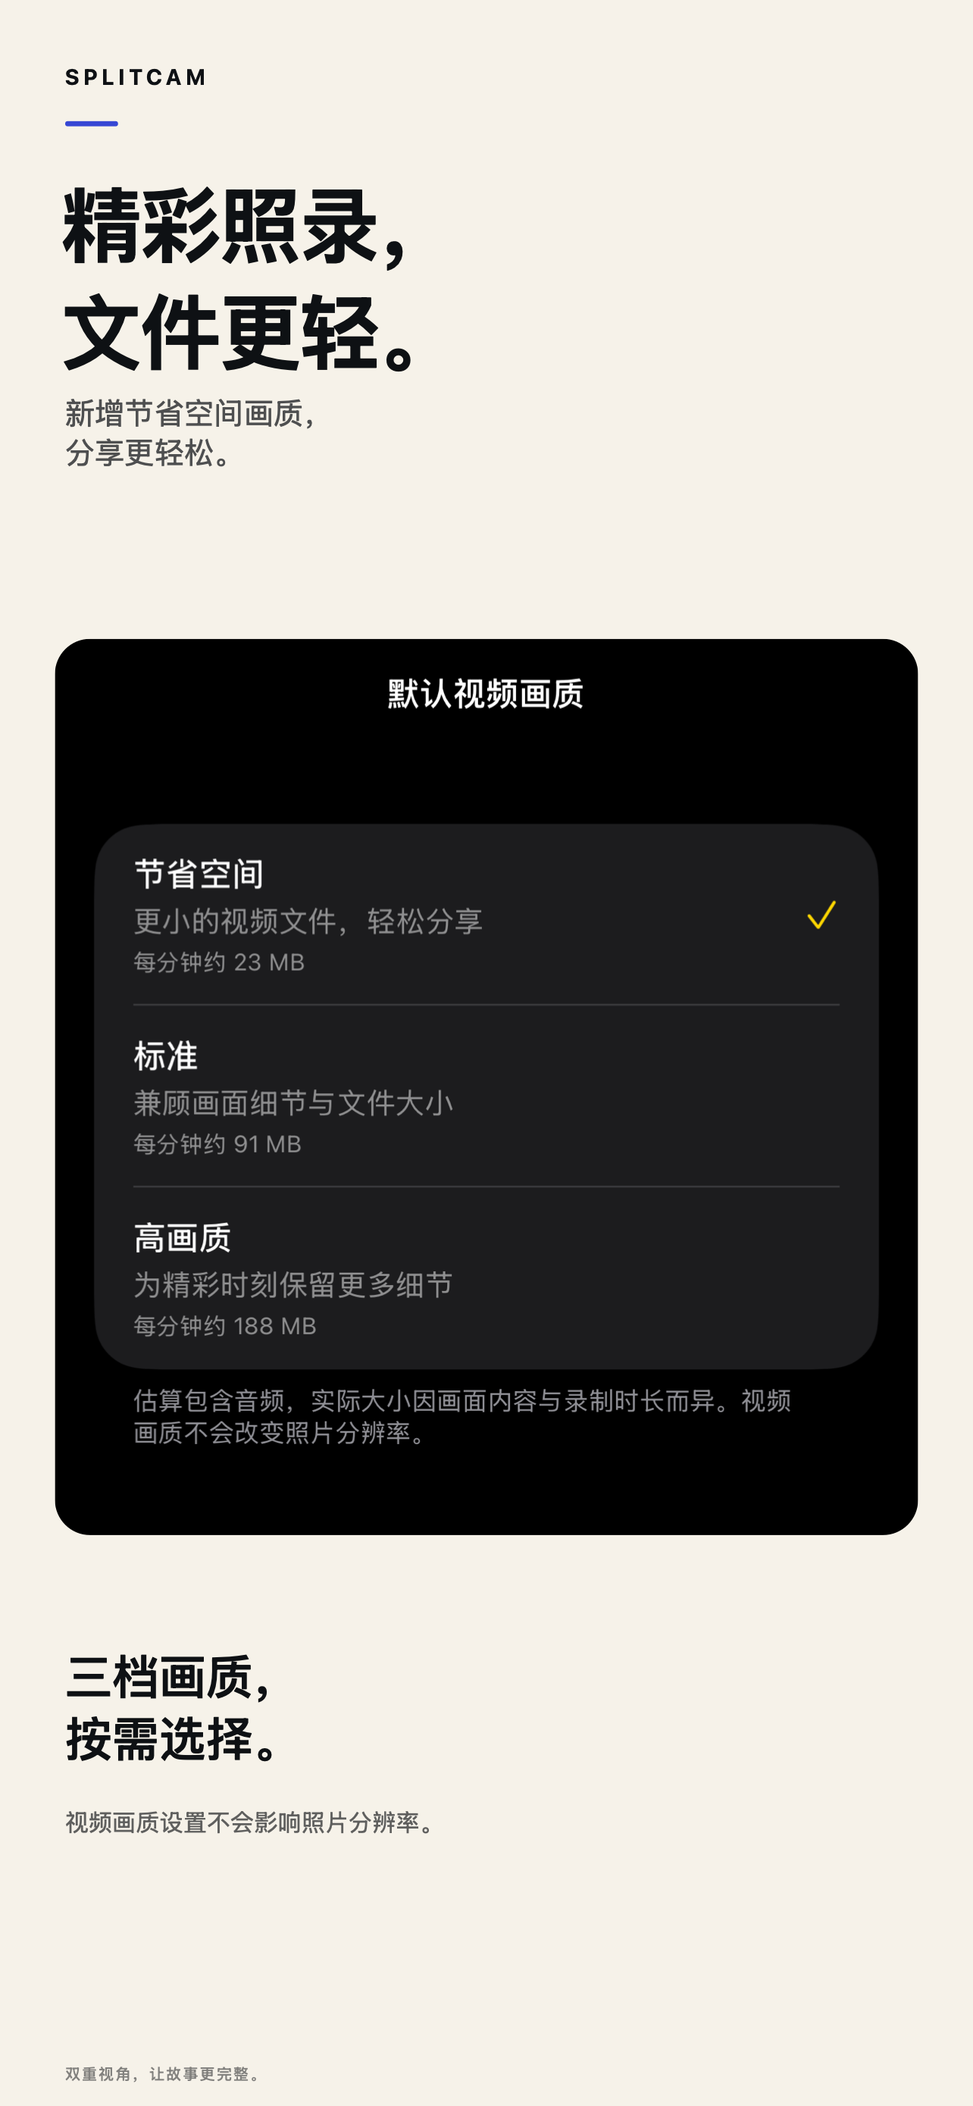
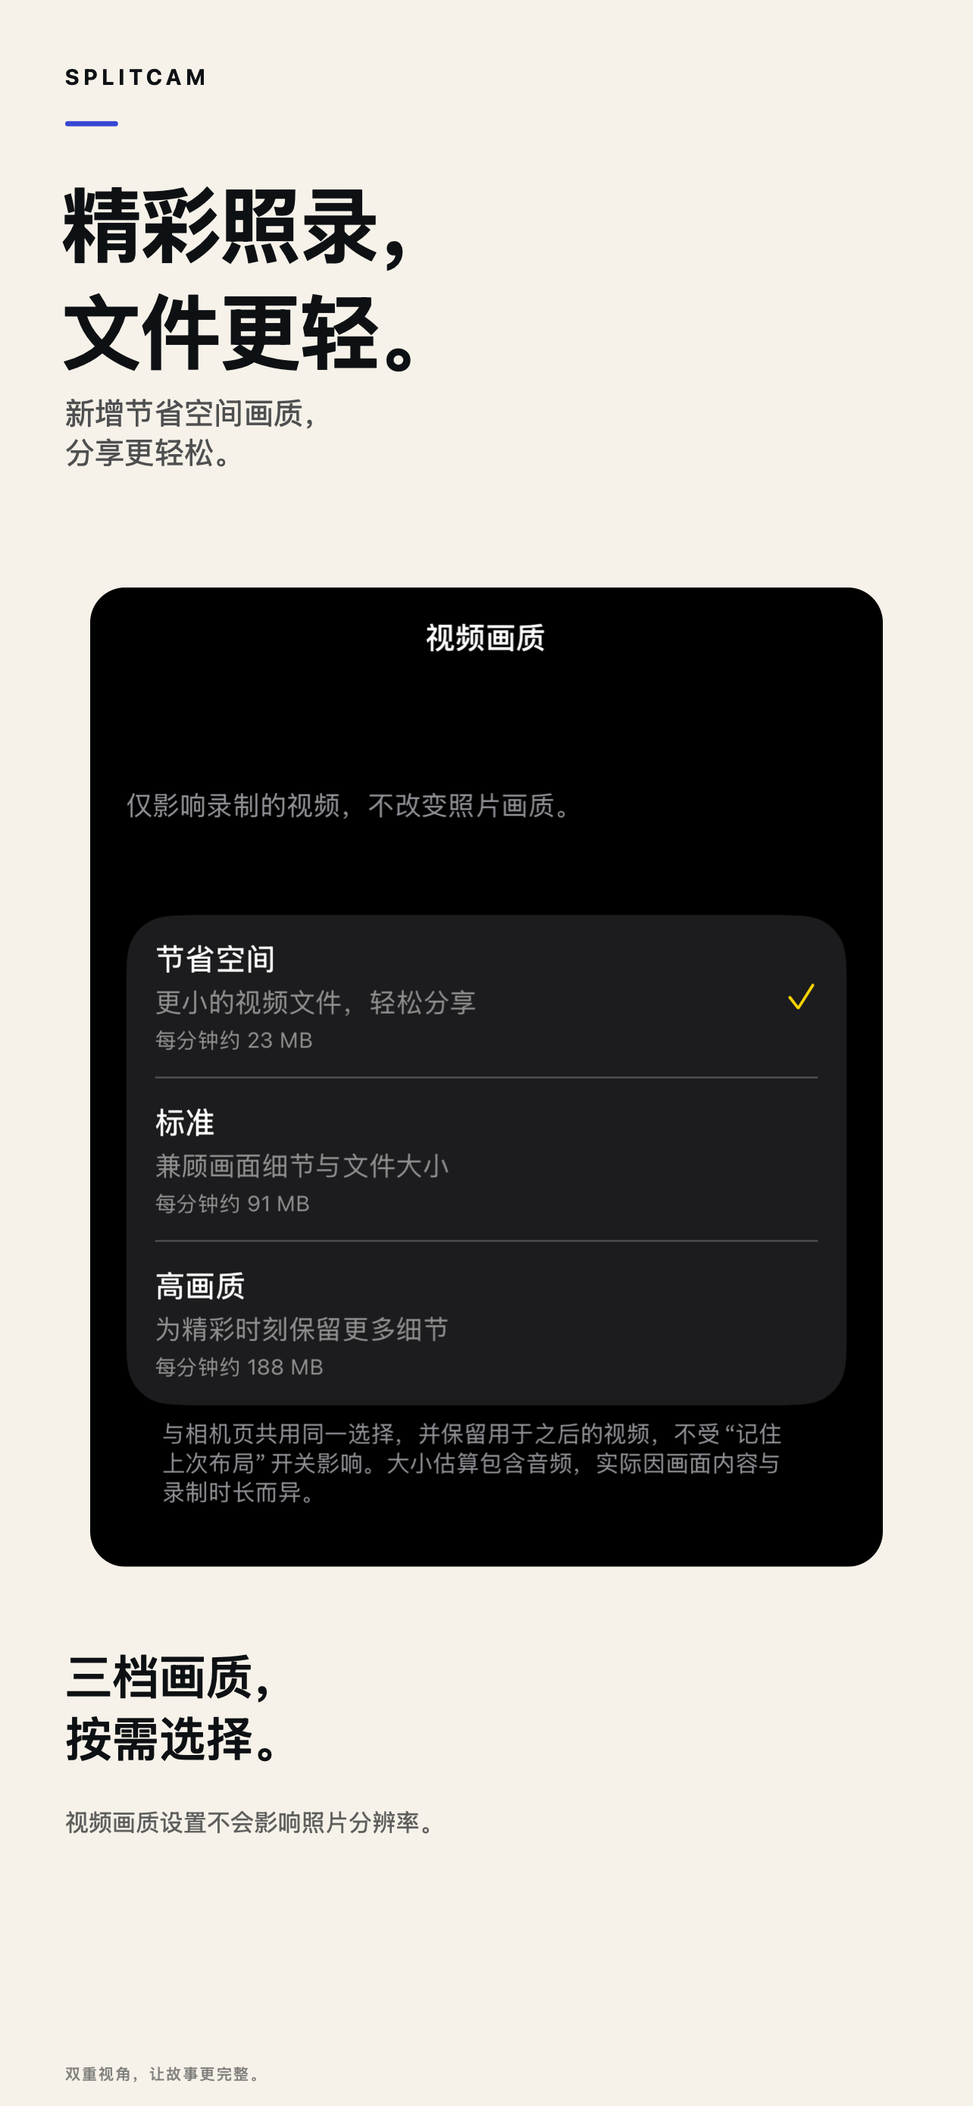
Unify video quality preferences and improve picker UX

Changed region(s): [[0.0312, 0.2786, 0.9657, 0.743]]

diff --git a/Features/Camera/CameraView.swift b/Features/Camera/CameraView.swift
@@ -12,6 +12,7 @@ struct CameraView: View {
     @ObservedObject private var subscriptionManager = SubscriptionManager.shared
     @State private var showPaywall = false
     @State private var showSettings = false
+    @State private var showVideoQuality = false
     @State private var paywallTrigger: ProFeature?
     @State private var focusPoint: CGPoint?
     @State private var showFocusIndicator = false
@@ -69,7 +70,7 @@ struct CameraView: View {
                 return
             }
             #endif
-            viewModel.setup(mode: mode, settings: appSettings)
+            viewModel.setup(mode: mode)
         }
         .onDisappear {
             viewModel.persistLayoutIfNeeded(to: appSettings)
@@ -99,14 +100,21 @@ struct CameraView: View {
             SettingsView(settings: appSettings)
                 .presentationDetents([.large])
         }
+        .sheet(isPresented: $showVideoQuality) {
+            NavigationStack {
+                VideoQualityPickerView(settings: appSettings)
+                    .toolbar {
+                        ToolbarItem(placement: .topBarTrailing) {
+                            Button("settings.done".localized) { showVideoQuality = false }
+                        }
+                    }
+            }
+            .preferredColorScheme(.dark)
+            .presentationDetents([.large])
+        }
         .onChange(of: appSettings.defaultAspectRatio) { ratio in
             guard !viewModel.isRecording else { return }
             viewModel.setAspectRatio(ratio)
-        }
-        .onChange(of: appSettings.defaultVideoQuality) { quality in
-            guard !viewModel.isRecording else { return }
-            viewModel.resolutionQuality = quality
-            viewModel.syncRecordingSnapshot()
         }
         .onChange(of: appSettings.frontCameraMirrored) { mirrored in
             viewModel.setFrontMirrored(mirrored)
@@ -366,13 +374,13 @@ struct CameraView: View {
                 .opacity(viewModel.isRecording && viewModel.aspectRatio != ratio ? 0.3 : 1)
             }
 
-            // 分隔线
-            Rectangle()
-                .fill(.white.opacity(0.2))
-                .frame(width: 1, height: 16)
-
-            // 画质切换
-            resolutionToggle
+            // Video quality has no effect on photos; don't imply that it does.
+            if viewModel.shootingMode == .video {
+                Rectangle()
+                    .fill(.white.opacity(0.2))
+                    .frame(width: 1, height: 16)
+                resolutionToggle
+            }
 
             if canCollapseAspectControls {
                 Divider()
@@ -583,17 +591,9 @@ struct CameraView: View {
     // MARK: - Resolution Toggle (画质切换)
 
     private var resolutionToggle: some View {
-        Menu {
-            ForEach(ResolutionQuality.allCases, id: \.self) { quality in
-                Button {
-                    guard !viewModel.isRecording else { return }
-                    viewModel.resolutionQuality = quality
-                    appSettings.defaultVideoQuality = quality
-                    viewModel.syncRecordingSnapshot()
-                } label: {
-                    Label(quality.displayName, systemImage: viewModel.resolutionQuality == quality ? "checkmark" : quality.symbol)
-                }
-            }
+        Button {
+            guard !viewModel.isRecording else { return }
+            showVideoQuality = true
         } label: {
             HStack(spacing: 3) {
                 Image(systemName: viewModel.resolutionQuality.symbol)
@@ -608,10 +608,12 @@ struct CameraView: View {
                 Capsule()
                     .fill(viewModel.resolutionQuality == .high ? .yellow.opacity(0.2) : .clear)
             )
+            .contentShape(Rectangle())
         }
         .disabled(viewModel.isRecording)
         .accessibilityLabel("settings.videoQuality".localized)
         .accessibilityValue(viewModel.resolutionQuality.displayName)
+        .accessibilityIdentifier("camera.videoQuality")
     }
 
     // MARK: - Duet Mode Badge (紧凑胶囊)

diff --git a/Features/Settings/SettingsView.swift b/Features/Settings/SettingsView.swift
@@ -48,6 +48,7 @@ struct SettingsView: View {
                     } label: {
                         LabeledContent("settings.videoQuality".localized, value: settings.defaultVideoQuality.displayName)
                     }
+                    .accessibilityIdentifier("settings.videoQuality")
                 }
 
                 Section("settings.section.support".localized) {
@@ -223,12 +224,20 @@ struct VideoQualityPickerView: View {
     var body: some View {
         List {
             Section {
+                Text("quality.scope".localized)
+                    .font(.subheadline)
+                    .foregroundStyle(.secondary)
+                    .fixedSize(horizontal: false, vertical: true)
+                    .listRowBackground(Color.clear)
+                    .listRowInsets(EdgeInsets(top: 0, leading: 0, bottom: 0, trailing: 0))
+            }
+            Section {
                 ForEach(ResolutionQuality.allCases, id: \.self) { quality in
                     Button {
                         settings.defaultVideoQuality = quality
                         dismiss()
                     } label: {
-                        HStack {
+                        HStack(spacing: 16) {
                             VStack(alignment: .leading, spacing: 5) {
                                 Text(quality.displayName)
                                     .font(.body.weight(.medium))
@@ -239,15 +248,32 @@ struct VideoQualityPickerView: View {
                                     .font(.caption)
                                     .foregroundStyle(.secondary)
                             }
-                            Spacer()
-                            if quality == settings.defaultVideoQuality {
-                                Image(systemName: "checkmark")
-                                    .foregroundStyle(.yellow)
-                            }
+                            Spacer(minLength: 0)
+                            Image(systemName: "checkmark")
+                                .foregroundStyle(.yellow)
+                                .opacity(quality == settings.defaultVideoQuality ? 1 : 0)
+                                .accessibilityHidden(true)
                         }
+                        .padding(.horizontal, 16)
+                        .padding(.vertical, 14)
+                        .frame(maxWidth: .infinity, minHeight: 88, alignment: .leading)
                         .contentShape(Rectangle())
                     }
+                    .buttonStyle(.plain)
                     .foregroundStyle(.white)
+                    .listRowInsets(EdgeInsets())
+                    .listRowSeparator(.hidden)
+                    .overlay(alignment: .bottom) {
+                        if quality != ResolutionQuality.allCases.last {
+                            Rectangle()
+                                .fill(Color.white.opacity(0.22))
+                                .frame(height: 1)
+                                .padding(.horizontal, 16)
+                                .allowsHitTesting(false)
+                        }
+                    }
+                    .accessibilityIdentifier("videoQuality.\(quality.rawValue)")
+                    .accessibilityAddTraits(quality == settings.defaultVideoQuality ? .isSelected : [])
                 }
             } footer: {
                 Text("quality.footer".localized)

diff --git a/Features/Camera/CameraViewModel.swift b/Features/Camera/CameraViewModel.swift
@@ -21,7 +21,6 @@ final class CameraViewModel: ObservableObject {
     @Published var shootingMode: ShootingMode = .photo
     @Published var aspectRatio: AspectRatioMode = .ratio3_4
     @Published var resolution: CaptureResolution = .hd1080p
-    @Published var resolutionQuality: ResolutionQuality = .standard
     @Published var zoomLevel: ZoomLevel = .wide
     @Published var showVideoPicker = false
     @Published var showError = false
@@ -47,6 +46,7 @@ final class CameraViewModel: ObservableObject {
     // MARK: - State
 
     private var captureMode: CaptureMode = .dualCamera
+    private let settings: AppSettings
     @Published var importedPlayer: AVPlayer?
     @Published var importedImage: UIImage?
     @Published var importedVideoBuffer: CMSampleBuffer?
@@ -126,6 +126,14 @@ final class CameraViewModel: ObservableObject {
 
     // MARK: - Computed
 
+    init(settings: AppSettings? = nil) {
+        self.settings = settings ?? .shared
+    }
+
+    /// One persisted preference, shared by both pickers. Layout restoration must
+    /// never replace it with a second, stale camera-local value.
+    var resolutionQuality: ResolutionQuality { settings.defaultVideoQuality }
+
     /// Photo output stays independent of the video quality preference.
     var currentExportSize: CGSize {
         aspectRatio.exportSize
@@ -143,9 +151,8 @@ final class CameraViewModel: ObservableObject {
 
     // MARK: - Setup
 
-    func setup(mode: CaptureMode, settings: AppSettings) {
+    func setup(mode: CaptureMode) {
         captureMode = mode
-        resolutionQuality = settings.defaultVideoQuality
         restoreLayout(from: settings)
         observeLayoutPersistence(using: settings)
 

diff --git a/Tools/RenderASO.swift b/Tools/RenderASO.swift
@@ -105,8 +105,10 @@ for (languageIndex, language) in ["en", "zh-Hans"].enumerated() {
 
             if index == 5 || index == 6 {
                 let source = base.appendingPathComponent("raw/\(language)/\(slide.screen).png")
-                let crop = index == 5 ? CGRect(x: 0, y: 170, width: 1320, height: 1370) : CGRect(x: 0, y: 1100, width: 1320, height: languageIndex == 1 ? 800 : 860)
-                let rect = CGRect(x: 72, y: index == 5 ? 870 : 990, width: 1176, height: crop.height * 1176 / 1320)
+                // Include the new video-only explanation and preference footer.
+                let crop = index == 5 ? CGRect(x: 0, y: 170, width: 1320, height: 1630) : CGRect(x: 0, y: 1100, width: 1320, height: languageIndex == 1 ? 800 : 860)
+                let detailWidth: CGFloat = index == 5 ? 1080 : 1176
+                let rect = CGRect(x: index == 5 ? 120 : 72, y: index == 5 ? 800 : 990, width: detailWidth, height: crop.height * detailWidth / 1320)
                 drawDetail(source, crop: crop, at: rect)
                 if index == 5 {
                     text(languageIndex == 0 ? "Three quality options.\nYour call." : "三档画质，\n按需选择。", x: 86, y: 2240, width: 1160, size: 68, color: foreground, weight: .semibold)

diff --git a/App/PreviewSupport.swift b/App/PreviewSupport.swift
@@ -20,7 +20,6 @@ enum ScreenshotSupport {
         model.splitMode = screen == "pip" ? .pip : (screen == "split" || screen == "duet" ? .leftRight : .topBottom)
         model.layoutEngine.pipScale = 0.42
         model.layoutEngine.pipOffset = CGSize(width: -0.04, height: 0.46)
-        model.resolutionQuality = AppSettings.shared.defaultVideoQuality
         model.backFrameBuffer = buffer(named: "demo-back.png")
         model.frontFrameBuffer = buffer(named: "demo-front.png")
         UserDefaults.standard.set(true, forKey: "settings.hasShownPipScaleHint")

diff --git a/App/AppSettings.swift b/App/AppSettings.swift
@@ -138,6 +138,8 @@ final class AppSettings: ObservableObject {
         didSet { defaults.set(lastFrontCameraMirrored, forKey: Key.lastFrontCameraMirrored) }
     }
 
+    // Shared by Settings and Camera, independent of remembersLastLayout.
+    // Keep the historical storage key so existing choices survive upgrades.
     @Published var defaultVideoQuality: ResolutionQuality {
         didSet { defaults.set(defaultVideoQuality.rawValue, forKey: Key.defaultVideoQuality) }
     }

diff --git a/Metadata/Design/QA/video-quality-and-save-audit.md b/Metadata/Design/QA/video-quality-and-save-audit.md
@@ -1,0 +1,38 @@
+# Video quality consistency and first-save investigation
+
+Date: 2026-09-13. Baseline: `fe681a0`, SplitCam 1.8 (9).
+
+## Quality UX and state contract
+
+- Quality changes video encoding only: Low uses a 720-based canvas at 3 Mbps; Standard and High keep a 1080-based canvas at 12 / 25 Mbps. `currentExportSize` and the photo renderer do not use this preference.
+- The camera quality button now appears only in Video mode. Both Camera and Settings open `VideoQualityPickerView`, with the same scope explanation, file-size estimates, selection and full-width hit targets. Custom separators are visual only and do not intercept taps.
+- The user-facing setting is **Video Quality**, not **Default Video Quality**. There is no separate temporary camera choice.
+- `AppSettings.defaultVideoQuality` remains the single source of truth. The legacy `settings.defaultVideoQuality` storage key and enum raw values are preserved. `CameraViewModel.resolutionQuality` is a computed read, not another published copy synchronized by a view lifecycle callback.
+- The most recent explicit selection wins, regardless of which picker was used. It persists independently of Remember Last Capture Layout & Settings. Layout restoration and lifecycle persistence never write video quality.
+- An existing writer keeps the size/bitrate established at recording start. The camera quality entry remains disabled while recording. Preference changes no longer push a new output size into an already-finishing writer via `onChange`.
+
+The baseline simulator build already synchronized the setting and accepted a right-side blank tap in the Settings picker. The reported failure was **not reproduced** on that build / iOS 26.3. This revision makes the interaction explicit, removes the duplicate state and replaces the separate camera menu with the shared picker; it does not claim to identify an OS-specific hit-testing defect.
+
+## First-save failure: findings, not a confirmed root cause
+
+The user reported the first video failing to save and a second attempt succeeding. No device log, exact alert screenshot, duration, quality or permission-prompt sequence has been supplied yet. Simulator UI checks and standalone HEVC encoding are not a physical dual-camera reproduction.
+
+### Confirmed code risks in the existing recording path
+
+1. The camera screen's `error.videoSaveFailed` ("Failed to save video") is raised in `CameraViewModel.stopRecording()` when writer completion is not `.completed`. It is not raised by the photo-library completion handler. Permission denial therefore does not directly explain that exact alert in this path.
+2. Camera callbacks append video/audio on CameraEngine's serial `dataOutputQueue`, but stop marks inputs finished and calls `finishWriting` from the main actor. `composeAndWriteFrame` can still run while writer status is `.writing`; it is not gated by the UI's `isRecording` flag. The separately declared `recordingQueue` is unused. Apple requires finalization to occur after all append calls have returned: [finishWriting documentation](https://developer.apple.com/documentation/avfoundation/avassetwriter/finishwriting(completionhandler:)).
+3. The asynchronous completion reads and clears `self.composedWriter` instead of the specific writer being finished. `isRecording` becomes false before completion and no processing state prevents another start. Starting a new recording during this window can make the old completion inspect/clear the new recording's writer.
+4. `startWriting`, video append and audio append results are ignored; the failure message discards the writer's underlying error. `isWritingStarted` records session start, not successful frame append, so the current empty-recording guard cannot establish that a video frame was accepted.
+5. Photo-library authorization denial and `performChanges` errors are currently swallowed. These are separate save-feedback defects, not evidence that the reported alert was caused by authorization.
+
+These are credible causes of intermittent failure, but do not prove why this particular first attempt failed. They are not fixed by the quality UI/state change.
+
+### Proposed follow-up repair (awaiting scope confirmation)
+
+- Serialize writer creation, append, stop and finalization on one owned queue; stop accepting samples before marking inputs finished.
+- Bind each completion to its own recording context and hold a finishing/saving state until it is safe to start again.
+- Check writer setup/append results, track accepted video frames and keep diagnostic stage + NSError domain/code/underlying error (no user media).
+- Separate encoding failures, photo-library authorization denial and photo-library write failures. Preserve an encoded file if album saving fails so retry is possible.
+- Reproduce on a supported physical device: fresh install / first Photos authorization, short and normal clips, all quality presets, rapid stop/start, background transitions, denial and re-enable. Verify playable output and audio/video sync.
+
+Do not mark the reported first-save problem resolved or the release fully verified until this investigation / repair has been completed on device.

diff --git a/Metadata/Design/QA/verification.md b/Metadata/Design/QA/verification.md
@@ -60,3 +60,16 @@ The revised first five scenes use different outfits, expressions and settings. `
 Run `swift Tools/ValidateASO.swift` to verify dimensions, opacity, color space and absence of page counters, including OCR near the former page-counter position.
 
 Final revision checks passed on 2026-09-13: all 16 upload PNGs are 1284 × 2778 opaque sRGB, no page counters were detected, and all 10 camera captures contain the expected nonblank demo content. Both language overviews were visually inspected. A clipped pet portrait was reframed as a landscape source and recaptured; screenshots taken before the app finished launching were replaced. The capture script now checks demo-frame readiness and retries instead of trusting a fixed startup delay. OCR validation needs access to macOS Vision services. These checks do not claim an ASC upload was performed.
+
+## Video quality follow-up (2026-09-13)
+
+- Video quality is now shown only in Video mode, using one shared picker and one persisted preference. See the [state contract and save investigation](video-quality-and-save-audit.md).
+- Verified through native simulator interaction: tapping the far-right blank area of Space Saver selects it and dismisses the camera picker; Settings immediately shows Space Saver. Tapping the far-left inset of High in Settings selects High. Returning to Video shows High without restart.
+- Verified Photo mode hides the quality entry. Video mode restores it without changing the selected quality.
+- Turned Remember Last Capture Layout & Settings off, chose High, terminated/relaunched without quality overrides, and confirmed High remained on the camera. The test app's persisted plist contained `settings.defaultVideoQuality = high` and `settings.remembersLastLayout = false`.
+- Checked Simplified Chinese at the largest accessibility text size: rows expand, text wraps, and native list scrolling reaches the selected High option and complete footer.
+- Debug Simulator and Release iPhone builds pass; Release Info.plist remains 1.8 (9). Existing VideoComposer Swift 6 migration warnings remain unchanged. Localizations and release metadata validate.
+- Re-ran the real HEVC harness: all four size mappings pass; Low / Standard / High encode and decode successfully with the same file-size results recorded above. This does not test the real camera's concurrent stop/finalize path.
+- Recaptured the four affected bilingual Settings / Quality raw screenshots; the quality board crop includes the new scope explanation and footer.
+
+The reported first-save failure remains under investigation. No fix to the recording finalization / Photos save pipeline is claimed in this revision.

diff --git a/Metadata/Releases/1.8.md b/Metadata/Releases/1.8.md
@@ -12,6 +12,7 @@
 6. Custody Journal 推广使用其官方图标（内部记录；不放到面向用户的更新说明）。
 7. 中英文各 8 张全新 ASO 截图、策划与复现资料已准备；双语 What’s New 和推广文案更新到本次发布内容。
 8. Debug/Release 的 MARKETING_VERSION=1.8，CURRENT_PROJECT_VERSION=9；Info.plist 引用这两个变量，消除多处手填版本的风险。Scheme 的 `version="1.7"` 是 Xcode 文件格式版本，不是 App 版本，不修改。
+9. 视频画质仅在录像模式显示；相机页与设置页共用带整行点击、分隔线和适用说明的选择页。最后一次画质选择统一持久化，不受布局记忆开关影响；相关 ASO 描述图同步更新。
 
 ## 文案与素材
 
@@ -38,6 +39,7 @@ xcodebuild -project SplitCam.xcodeproj -scheme SplitCam -configuration Release -
 
 ## 上传前仍须完成
 
+- [ ] 处理用户反馈的“首次视频保存失败”：已发现录制收尾并发与错误反馈风险，尚未确认该次失败根因，也未修改保存流程。见[专项检查](../Design/QA/video-quality-and-save-audit.md)。在确认修复和真机回归前不要将此问题标记为已解决。
 - [ ] 在支持多摄的真机检查三档视频的录制、停止、保存、回放与音画同步；覆盖四种画幅及 PiP/合拍。模拟器界面和本地编码通过不等于真机录制通过。
 - [ ] 在 App Store 沙盒或 TestFlight 检查月/年/终身购买、试用资格、取消/待处理、恢复购买、已订阅与未订阅状态；不要用真实扣款代替沙盒验证。
 - [ ] 检查 1.7 升级到 1.8 后的设置保留、四款图标与 Pro 限制。
